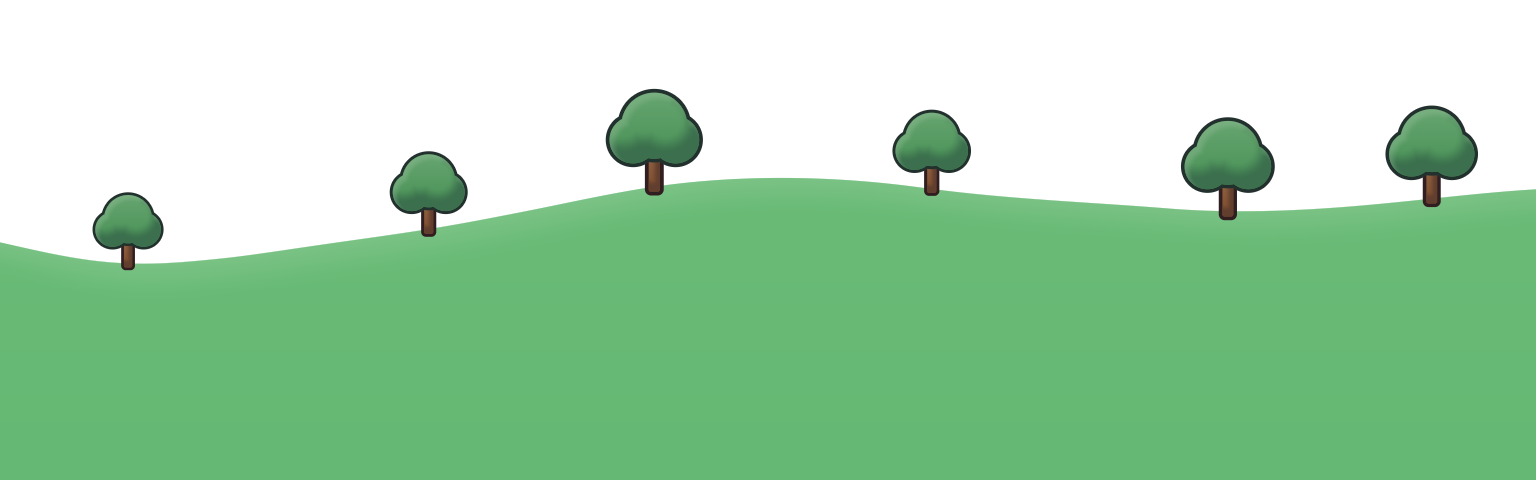
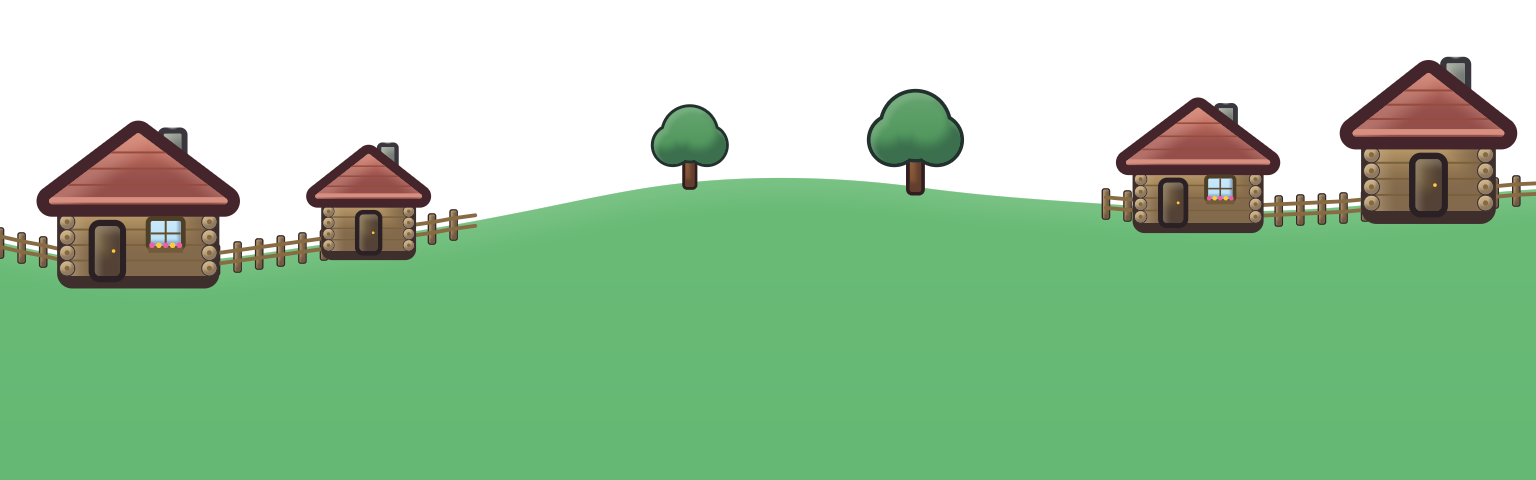
Petit village en bois dans les premiers décors (prairie)
Chalets en rondins, cheminées qui fument, barrière, cabanes et moulin au loin, fenêtres allumées la nuit. ArtPack régénéré, ArtVersion 17.

Claude-Session: https://claude.ai/code/session_01GjF5pVKpWLsxsJrgQmasFX

diff --git a/Assets/Bascule/Scripts/Core/Village.cs b/Assets/Bascule/Scripts/Core/Village.cs
@@ -1,0 +1,154 @@
+using System;
+
+namespace Bascule.Core
+{
+    /// <summary>
+    /// Petit village en bois des premiers décors (la prairie, de 0 à 5 500 points) : chalets en rondins au toit rouge,
+    /// cheminée qui fume, fenêtres allumées la nuit, barrière de bois, et au loin quelques cabanes et un moulin.
+    /// Les chalets restent sur les côtés : le centre de l'écran (Basile et sa planche) reste dégagé.
+    /// </summary>
+    public static partial class SceneArtist
+    {
+        /// <summary>Position (fraction de la largeur) des chalets des collines proches.</summary>
+        static readonly float[] HouseAt = { 0.09f, 0.24f, 0.78f, 0.93f };
+
+        static bool NearHouse(float fx)
+        {
+            foreach (var hx in HouseAt) if (Math.Abs(fx - hx) < 0.07f) return true;
+            return false;
+        }
+
+        /// <summary>Couleurs du village selon l'heure : bois et toits prennent un peu la teinte du ciel, et s'assombrissent la nuit.</summary>
+        static void VillageColors(Theme t, out Rgba wood, out Rgba roof, out Rgba stone)
+        {
+            wood = Rgba.Lerp(Rgba.FromHex("#C08552"), t.NearHills, 0.15f);
+            roof = Rgba.Lerp(Rgba.FromHex("#C8553D"), t.SkyHorizon, 0.12f);
+            stone = Rgba.Lerp(Rgba.FromHex("#A8A39A"), t.NearHills, 0.15f);
+            if (t.Night) { wood = wood.Shade(0.5f); roof = roof.Shade(0.5f); stone = stone.Shade(0.5f); }
+        }
+
+        static void NearVillage(Raster img, Theme t, Shape hills, int w, int h)
+        {
+            VillageColors(t, out var wood, out var roof, out var stone);
+            float[] size = { 0.26f, 0.19f, 0.21f, 0.27f };
+            // Barrière en bois entre les chalets de chaque côté.
+            for (int side = 0; side < 2; side++)
+            {
+                float x0 = w * (side == 0 ? 0.0f : 0.72f), x1 = w * (side == 0 ? 0.3f : 1.0f);
+                var post = wood.Shade(0.85f);
+                for (float x = x0; x <= x1; x += h * 0.045f)
+                {
+                    float y = TopOf(hills, x, h) - h * 0.03f;
+                    Toon.Part(img, Shape.Box(x, y + h * 0.03f, h * 0.006f, h * 0.03f, h * 0.003f), post, h * 0.06f, Village);
+                }
+                for (int r = 0; r < 2; r++)
+                    for (float x = x0; x < x1; x += h * 0.045f)
+                    {
+                        float ya = TopOf(hills, x, h) - h * 0.03f + h * (0.022f + r * 0.022f), yb = TopOf(hills, x + h * 0.045f, h) - h * 0.03f + h * (0.022f + r * 0.022f);
+                        img.Fill(Shape.Capsule(x, ya, x + h * 0.045f, yb, h * 0.004f), post.Shade(0.9f), 1f);
+                    }
+            }
+            for (int i = 0; i < HouseAt.Length; i++)
+            {
+                float x = w * HouseAt[i];
+                Chalet(img, x, TopOf(hills, x, h) - h * 0.025f, h * size[i], wood, roof, stone, t.Night, i % 2 == 1, i);
+            }
+        }
+
+        static readonly Toon.Style Village = new Toon.Style { Outline = 0.05f, Shade = 0.18f, Soft = 0.2f, Rim = 0.05f, RimOpacity = 0.4f, Specular = false };
+
+        /// <summary>Chalet en rondins : base au sol en (x, y), hauteur des murs environ s.</summary>
+        static void Chalet(Raster img, float x, float y, float s, Rgba wood, Rgba roof, Rgba stone, bool night, bool small, int seed)
+        {
+            float hw = s * (small ? 0.42f : 0.55f), wallH = s * 0.62f;
+            // Cheminée (derrière le toit).
+            float chx = x + hw * 0.5f;
+            Toon.Part(img, Shape.Box(chx, y + wallH + s * 0.32f, s * 0.07f, s * 0.2f, s * 0.01f), stone, s, Village);
+            // Fumée (le jour) : trois boules qui montent.
+            if (!night)
+                for (int k = 0; k < 3; k++)
+                    img.Fill(Shape.Circle(chx + k * s * 0.08f, y + wallH + s * (0.62f + k * 0.18f), s * (0.06f + k * 0.025f)), Rgba.White.WithAlpha(0.55f - k * 0.13f), s * 0.03f);
+
+            // Murs en rondins, bouts de rondins qui dépassent aux coins.
+            var walls = Shape.Box(x, y + wallH * 0.5f, hw, wallH * 0.5f, s * 0.02f);
+            Toon.Part(img, walls, wood, s * 2, Village);
+            int rows = 5;
+            for (int r = 1; r < rows; r++)
+                img.FillClipped(walls, Shape.Box(x, y + wallH * r / rows, hw, s * 0.008f), wood.Shade(0.7f), 1f);
+            for (int r = 0; r < rows; r++)
+            {
+                float ly = y + wallH * (r + 0.5f) / rows;
+                for (int sgn = -1; sgn <= 1; sgn += 2)
+                {
+                    Toon.Part(img, Shape.Circle(x + sgn * (hw + s * 0.02f), ly, wallH / rows * 0.45f), wood.Light(1.1f), s * 0.2f, Village);
+                    img.Fill(Shape.Circle(x + sgn * (hw + s * 0.02f), ly, wallH / rows * 0.16f), wood.Shade(0.75f));
+                }
+            }
+
+            // Toit à deux pans, avec bardeaux.
+            float eave = y + wallH - s * 0.02f, peak = y + wallH + s * (small ? 0.42f : 0.5f);
+            var roofShape = Shape.Poly(x - hw - s * 0.14f, eave, x + hw + s * 0.14f, eave, x, peak).Grow(s * 0.025f);
+            Toon.Part(img, roofShape, roof, s * 2, Village);
+            for (int r = 1; r < 4; r++)
+                img.FillClipped(roofShape, Shape.Box(x, eave + (peak - eave) * r / 4f, hw * 2, s * 0.008f), roof.Shade(0.75f), 1f);
+            img.FillClipped(roofShape, Shape.Box(x, eave + s * 0.01f, hw * 2, s * 0.022f), roof.Light(1.2f), 1f);
+
+            // Porte et fenêtre (allumée la nuit).
+            float dx = small ? x : x - hw * 0.45f;
+            var door = Shape.Box(dx, y + s * 0.2f, s * 0.1f, s * 0.2f, s * 0.04f);
+            Toon.Part(img, door, wood.Shade(0.6f), s, Village);
+            img.Fill(Shape.Circle(dx + s * 0.05f, y + s * 0.2f, s * 0.014f), Rgba.FromHex("#FFC93C"));
+            if (!small)
+            {
+                float wx = x + hw * 0.4f, wy = y + wallH * 0.55f;
+                var glass = night ? Rgba.FromHex("#FFD66B") : Rgba.FromHex("#BDE6FF");
+                if (night) img.Fill(Shape.Circle(wx, wy, s * 0.22f), Rgba.FromHex("#FFC15E").WithAlpha(0.35f), s * 0.18f);
+                var win = Shape.Box(wx, wy, s * 0.12f, s * 0.1f, s * 0.015f);
+                Toon.Part(img, win, glass, s * 0.5f, new Toon.Style { Outline = 0.08f, OutlineColor = wood.Shade(0.45f), Shade = 0.08f, Rim = 0f, Specular = false });
+                img.FillClipped(win, Shape.Box(wx, wy, s * 0.008f, s * 0.12f), wood.Shade(0.55f), 1f);
+                img.FillClipped(win, Shape.Box(wx, wy, s * 0.14f, s * 0.008f), wood.Shade(0.55f), 1f);
+                // Jardinière fleurie sous la fenêtre.
+                img.Fill(Shape.Box(wx, wy - s * 0.13f, s * 0.14f, s * 0.025f, s * 0.01f), wood.Shade(0.65f));
+                if (!night)
+                    for (int k = -2; k <= 2; k++)
+                        img.Fill(Shape.Circle(wx + k * s * 0.055f, wy - s * 0.095f, s * 0.022f), k % 2 == 0 ? Rgba.FromHex("#F25CA2") : Rgba.FromHex("#FFC93C"));
+            }
+            else if (night)
+            {
+                // Petite lucarne allumée sous le toit.
+                img.Fill(Shape.Circle(x, y + wallH + s * 0.16f, s * 0.05f), Rgba.FromHex("#FFD66B"));
+            }
+        }
+
+        static void FarVillage(Raster img, Theme t, Shape hills, int w, int h)
+        {
+            VillageColors(t, out var wood, out var roof, out _);
+            // Au loin : couleurs plus pâles, mêlées à la colline (perspective).
+            wood = Rgba.Lerp(wood, t.FarHills, 0.4f);
+            roof = Rgba.Lerp(roof, t.FarHills, 0.35f);
+            float[] at = { 0.06f, 0.15f, 0.29f, 0.7f, 0.84f };
+            for (int i = 0; i < at.Length; i++)
+            {
+                float x = w * at[i], y = TopOf(hills, x, h) - h * 0.01f, s = h * (0.08f + (i % 2) * 0.02f);
+                img.Fill(Shape.Box(x, y + s * 0.3f, s * 0.42f, s * 0.3f), wood);
+                img.Fill(Shape.Poly(x - s * 0.55f, y + s * 0.58f, x + s * 0.55f, y + s * 0.58f, x, y + s * 0.98f), roof);
+                if (t.Night) img.Fill(Shape.Box(x + s * 0.15f, y + s * 0.3f, s * 0.07f, s * 0.07f), Rgba.FromHex("#FFD66B"));
+            }
+            // Moulin à vent.
+            float mx = w * 0.2f, my = TopOf(hills, mx, h) - h * 0.01f, ms = h * 0.2f;
+            img.Fill(Shape.Poly(mx - ms * 0.16f, my, mx + ms * 0.16f, my, mx + ms * 0.1f, my + ms * 0.6f, mx - ms * 0.1f, my + ms * 0.6f), Rgba.Lerp(wood, Rgba.White, 0.35f));
+            img.Fill(Shape.Poly(mx - ms * 0.14f, my + ms * 0.58f, mx + ms * 0.14f, my + ms * 0.58f, mx, my + ms * 0.76f), roof);
+            float hx = mx, hy = my + ms * 0.62f;
+            for (int k = 0; k < 4; k++)
+            {
+                double a = Math.PI / 4 + k * Math.PI / 2;
+                float ex = hx + (float)Math.Cos(a) * ms * 0.42f, ey = hy + (float)Math.Sin(a) * ms * 0.42f;
+                img.Fill(Shape.Capsule(hx, hy, ex, ey, ms * 0.012f), wood.Shade(0.7f));
+                float px = (float)-Math.Sin(a), py = (float)Math.Cos(a);
+                img.Fill(Shape.Poly(hx + (ex - hx) * 0.25f, hy + (ey - hy) * 0.25f, ex, ey, ex + px * ms * 0.08f, ey + py * ms * 0.08f, hx + (ex - hx) * 0.25f + px * ms * 0.08f, hy + (ey - hy) * 0.25f + py * ms * 0.08f),
+                    Rgba.Lerp(Rgba.White, t.FarHills, 0.3f).WithAlpha(0.9f));
+            }
+            img.Fill(Shape.Circle(hx, hy, ms * 0.03f), wood.Shade(0.6f));
+        }
+    }
+}

diff --git a/Assets/Bascule/Scripts/Core/SceneArt.cs b/Assets/Bascule/Scripts/Core/SceneArt.cs
@@ -150,14 +150,18 @@ namespace Bascule.Core
             var st = new Toon.Style { Outline = 0f, Shade = far ? 0.03f : 0.05f, Soft = 0.06f, ShadeStrength = 0.88f, Rim = 0.01f, RimOpacity = 0.35f, Specular = false };
             Toon.Part(img, hills, color, w, st);
 
+            // Petit village de bois (Village.cs) : moulin et cabanes au loin, chalets et barrière tout près.
+            if (far) FarVillage(img, t, hills, w, h);
+            else NearVillage(img, t, hills, w, h);
+
             if (!far)
             {
-                // Petits arbres ronds sur les collines proches.
+                // Petits arbres ronds sur les collines proches (pas devant les chalets).
                 for (int i = 0; i < 6; i++)
                 {
                     float x = w * (0.08f + i * 0.17f + rng.NextFloat() * 0.06f);
                     float top = TopOf(hills, x, h);
-                    if (top < h * 0.25f) continue;
+                    if (top < h * 0.25f || NearHouse(x / w)) continue;
                     float s = h * (0.07f + rng.NextFloat() * 0.04f);
                     var trunk = Shape.Box(x, top + s * 0.4f, s * 0.12f, s * 0.5f, s * 0.05f);
                     Toon.Part(img, trunk, WoodDark.Shade(t.Night ? 0.5f : 0.9f), s * 2, new Toon.Style { Outline = 0.04f, Shade = 0.1f, Rim = 0f, Specular = false });

diff --git a/Assets/Bascule/Scripts/Runtime/Game/ArtCache.cs b/Assets/Bascule/Scripts/Runtime/Game/ArtCache.cs
@@ -355,7 +355,7 @@ namespace Bascule
         /// <summary>
         /// À augmenter à chaque modification des dessins (Core/*Art*.cs) : les images en cache sont alors redessinées.
         /// </summary>
-        public const int ArtVersion = 16;
+        public const int ArtVersion = 17;
 
         static string _cacheDir;
 

diff --git a/docs/VERSIONS.md b/docs/VERSIONS.md
@@ -3,6 +3,7 @@
 Chaque zip porte son numéro (Bascule_V3.zip = version 3.0, affichée dans Réglages).
 
 ## Prochaine version (après la 1.3) – mondes, tenues, coffre, partage
+- **Petit village en bois dès le début** (`Core/Village.cs`) : sur les collines de la prairie (0 à 5 500 points), chalets en rondins au toit rouge, cheminées qui fument, jardinières fleuries, barrière de bois ; au loin des cabanes et un moulin à vent. La nuit, les fenêtres s'allument. Les chalets restent sur les côtés : Basile et sa planche restent bien dégagés.
 - **14 mondes jusqu'à 30 000** (`Core/SceneBiomes.cs`, `Theme.All`, `Difficulty.ThemeScores`) : la prairie au fil de la journée (0 à 4 000), puis la **plage** (5 500 : mer, voilier, palmiers, coquillages), la **forêt** (7 000 : sapins, champignons), le **désert** (9 000 : mesas, dunes, cactus), la **montagne** (11 500 : sommets enneigés, sapins sous la neige), la **ville** (14 000) et **la ville la nuit** (17 000, fenêtres allumées), le **volcan** (20 000 : cratère, coulées et fissures de lave), la **banquise** (23 500 : icebergs, igloo, pingouin) et la **Lune** (27 000 : cratères, drapeau, la Terre dans le ciel, pas de nuages).
 - **Au-delà de 30 000** : un monde déjà vu revient tous les 3 000 points dans une autre teinte (7 teintes : rose, lavande, or, menthe, corail, violet, citron vert). 63 décors différents avant la moindre répétition, sans aucune image en plus.
 - **Mémoire** : seuls le monde affiché et le suivant sont chargés ; le suivant se charge pendant la partie, les autres sont libérés (décor du joueur et de l'adversaire en duel pris en compte).
@@ -10,7 +11,7 @@ Chaque zip porte son numéro (Bascule_V3.zip = version 3.0, affichée dans Régl
 - **Coffre** : se déverrouille en tapant n'importe où sur l'écran ; ondes de choc et confettis à chaque tap, couleur qui monte (or, orange, rose, violet), rayon de lumière, ouverture avec trois anneaux arc-en-ciel et pluie de confettis, compteur de pièces qui défile, tête gagnée qui tourne sur elle-même. Nouveau dessin : bande dorée rivetée, pierres bleues, étoile sur le couvercle, intérieur plus lumineux.
 - **Partage** : la vraie fenêtre de partage d'iOS (Messages, Snap, Insta…) avec l'image du score (`Plugins/iOS/BasculeShare.mm`), et celle d'Android ; avant, sans paquet NativeShare, le jeu se contentait de copier le texte (« texte copié »).
 - **Nouvelles têtes** : pastille rouge avec le nombre sur le bouton Têtes de l'accueil et sur chaque onglet de la collection, étiquette « NOUVEAU ! » sur la tête ; la collection s'ouvre sur l'onglet des nouveautés, la pastille disparaît une fois vues.
-- ArtPack régénéré, `ArtVersion` 16. 162 tests.
+- ArtPack régénéré, `ArtVersion` 17. 162 tests.
 
 ## V1.3 (1.3, build 4) – duel en direct, annonce de rafale, prêt pour la validation Apple
 - **Duel en temps réel entre amis** (`Core/Duel.cs`, `Runtime/Duel/`, `UI/DuelScreens.cs`) :
